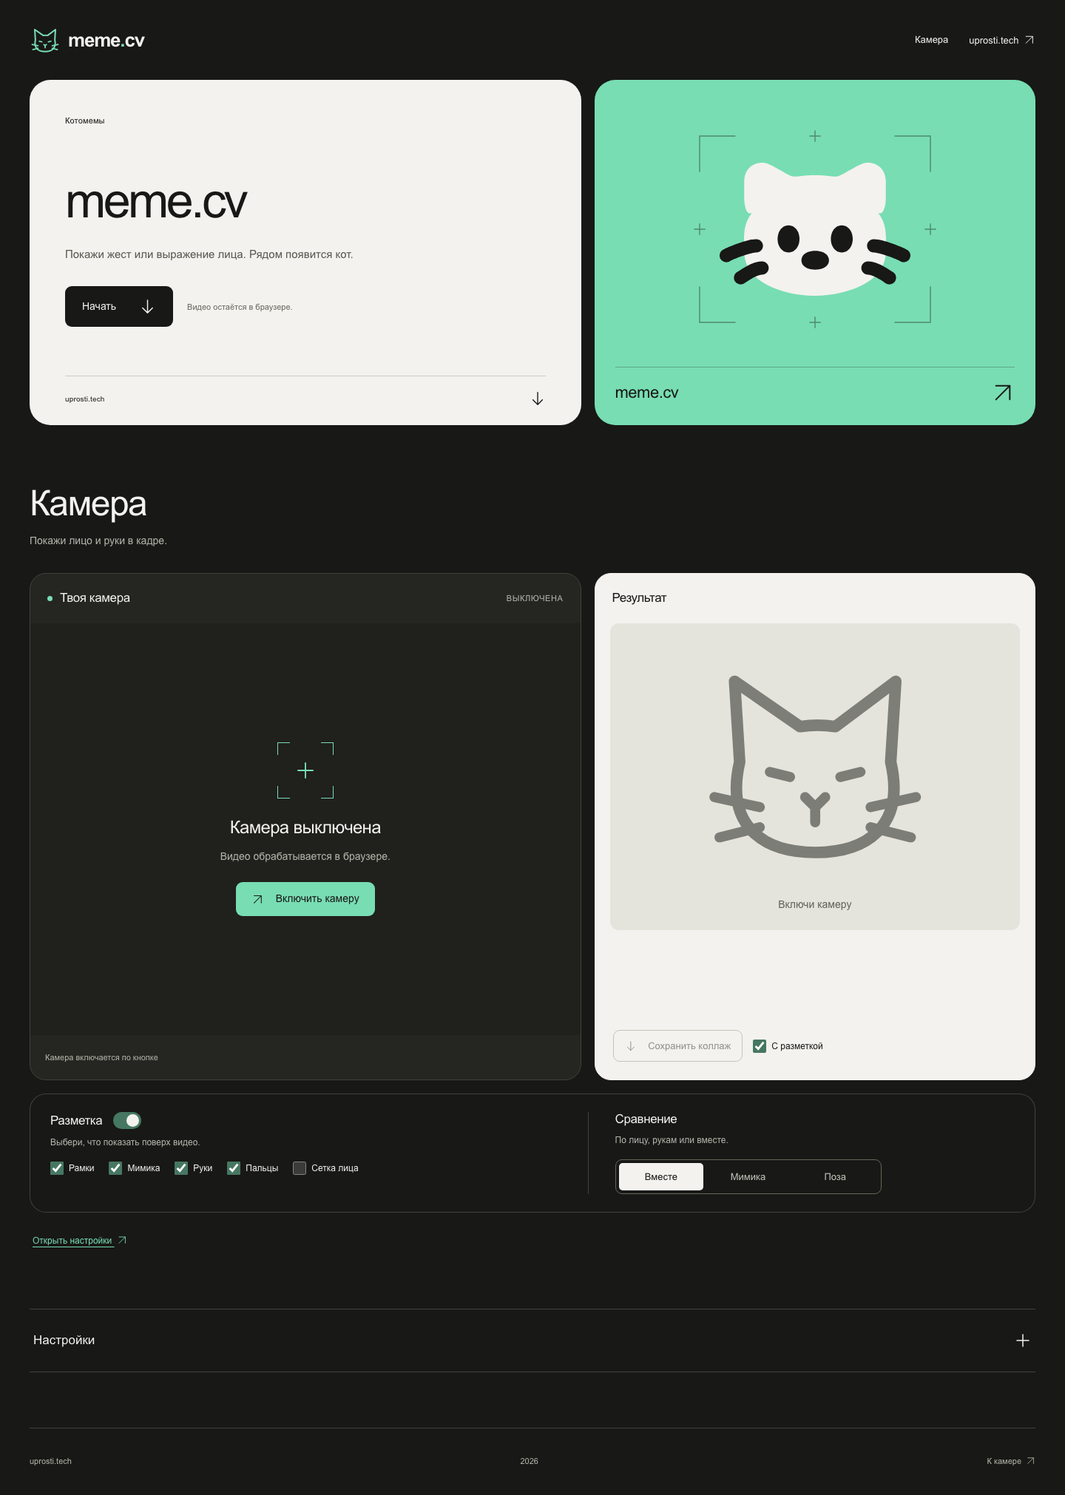
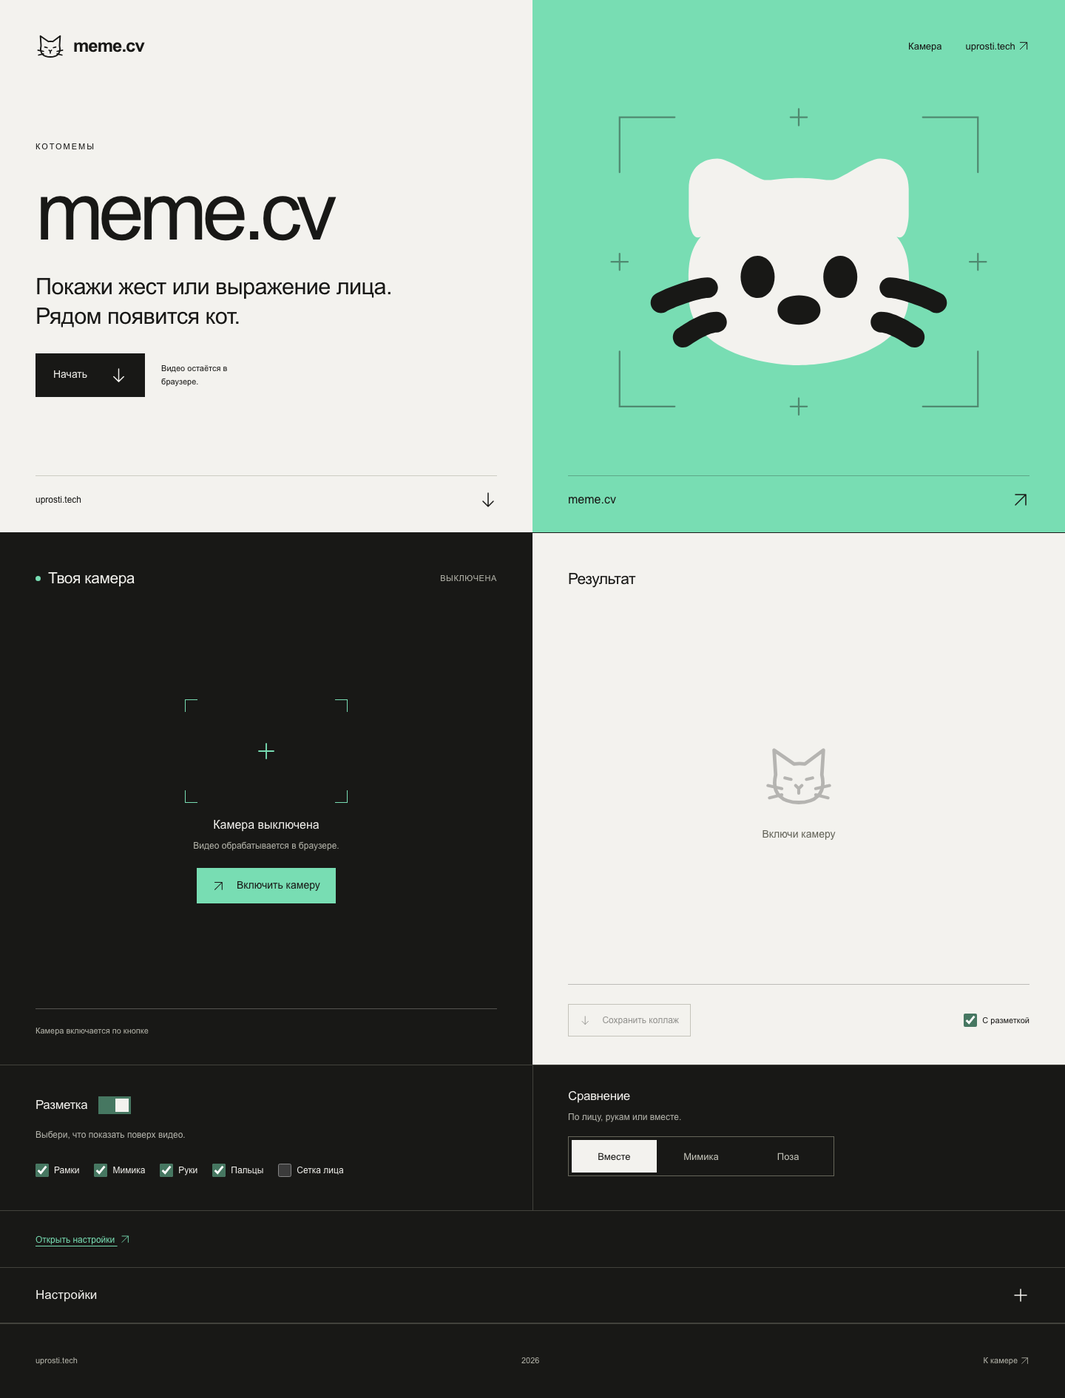
Ship edge-to-edge four-square interface and rectangular settings

diff --git a/src/four-squares.css b/src/four-squares.css
@@ -1,0 +1,145 @@
+/* Approved four-square composition. Media stays absolutely sized so native video
+   dimensions cannot enlarge the grid; video and overlay share contain geometry. */
+main {
+  --layout-columns: repeat(2, minmax(0, 1fr));
+  --layout-gap: 0px;
+  --square-padding: 40px 48px 32px;
+  --control-padding: 32px 48px;
+  max-width: none;
+  padding: 0;
+  margin: 0;
+}
+main *, main *::before, main *::after { border-radius: 0; }
+.release-hero, .workspace, .controls { grid-template-columns: var(--layout-columns); gap: 0; }
+.hero-copy, .hero-cat-card, .camera-panel, .result-panel {
+  aspect-ratio: 1;
+  min-width: 0;
+  min-height: 0;
+  padding: var(--square-padding);
+  display: flex;
+  flex-direction: column;
+  overflow: visible;
+  border: 0;
+}
+.hero-copy { align-items: stretch; }
+.topbar, .site-nav { min-height: 44px; padding: 0; flex-wrap: nowrap; }
+.topbar { justify-content: flex-start; }
+.brand { font-size: 24px; gap: 11px; letter-spacing: -1px; }
+.brand-mark { width: 40px; height: 40px; color: var(--ink); }
+.site-nav { justify-content: flex-end; gap: 32px; font-size: 13px; flex-basis: auto; }
+.site-nav a { display: inline-flex; align-items: center; min-height: 44px; padding: 0; border: 0; }
+.site-nav a:hover { color: var(--ink); text-decoration: underline; text-underline-offset: 5px; }
+.site-nav .ui-icon { width: 16px; height: 16px; }
+.hero-copy-body { flex: 1; display: flex; flex-direction: column; justify-content: center; padding: 35px 0; }
+.hero-copy .eyebrow { font-size: 11px; text-transform: uppercase; letter-spacing: 2px; margin-bottom: 26px; }
+.release-title { font-size: clamp(64px, 7.7vw, 118px); line-height: .95; font-weight: 400; letter-spacing: -7px; }
+.hero-description { font-size: clamp(20px, 2.13vw, 32px); line-height: 1.3; max-width: 520px; margin-top: 30px; letter-spacing: -.6px; color: var(--ink); }
+.hero-action-row { gap: 22px; margin: 30px 0 0; }
+.hero-cta { min-height: 56px; padding: 17px 23px; font-size: 14px; }
+.hero-smallprint { color: var(--ink); max-width: 130px; font-size: 11px; }
+.hero-bottom, .hero-cat-footer { min-height: 40px; padding-top: 20px; font-size: 12px; letter-spacing: 0; flex: 0 0 auto; }
+.hero-cat-footer { font-size: 16px; }
+.hero-bottom > .ui-icon, .hero-cat-footer > .ui-icon { width: 24px; height: 24px; }
+.hero-cat-art { flex: 1; height: auto; min-height: 0; }
+.hero-cat-scene { width: min(100%, 560px); height: auto; max-height: 100%; }
+.camera-panel { background: var(--ink); }
+.result-panel { border-top: 1px solid var(--ink); }
+.panel-heading { min-height: 44px; padding: 0; flex: 0 0 auto; }
+.panel-heading h2 { font-size: 21px; font-weight: 400; letter-spacing: -.5px; }
+.camera-stage, .meme-display { flex: 1; min-height: 0; min-width: 0; aspect-ratio: auto; margin: 0; max-height: none; background: transparent; }
+.camera-stage video, .cv-canvas { object-fit: contain; }
+.camera-placeholder { padding: 16px 0; }
+.viewfinder { width: 220px; height: 140px; margin-bottom: 20px; }
+.camera-placeholder h3 { font-size: 16px; letter-spacing: 0; }
+.camera-placeholder p { font-size: 12px; margin-top: 10px; }
+.camera-placeholder .primary { margin-top: 20px; min-height: 48px; }
+.camera-footer { min-height: 44px; padding: 16px 0 0; border-top: 1px solid #f3f2ee47; flex: 0 0 auto; }
+.camera-footer .text-button { min-height: 44px; }
+.export-row { margin: 0; padding: 20px 0 0; min-height: 77px; justify-content: space-between; gap: 10px; border-top: 1px solid #18181640; flex: 0 0 auto; }
+.export-row .secondary { min-height: 44px; font-size: 12px; }
+.small-check { min-height: 44px; font-size: 11px; }
+.meme-display { position: relative; }
+.meme-display > .cat-image { position: absolute; inset: 0; width: 100%; height: 100%; object-fit: contain; }
+.result-placeholder { position: absolute; inset: 0; }
+.result-placeholder .result-cat-mark { width: 100px; height: 100px; flex: 0 0 auto; opacity: .28; }
+.controls { margin-top: 0; box-shadow: none; border-block: 1px solid var(--line); }
+.control-group + .control-group::before { left: 0; top: 0; bottom: 0; }
+.layer-options label { min-height: 44px; }
+.segmented button { min-height: 44px; }
+.switch { width: 44px; height: 44px; align-items: center; }
+.switch span { height: 24px; }
+.switch span::after { top: 13px; width: 18px; height: 18px; }
+.switch input:checked + span::after { transform: translateX(20px); }
+.recognition-help { padding: 16px 48px; border-bottom: 1px solid var(--line); }
+.recognition-help .text-button { min-height: 44px; }
+.advanced-settings { margin: 0; padding: 0; border-top: 0; }
+.advanced-settings > summary { padding: 24px 48px; min-height: 72px; }
+.advanced-settings[open] > summary { margin: 0; border-bottom: 1px solid var(--line); }
+.calibration-panel { margin: 0; padding: 32px 48px; border: 0; border-bottom: 1px solid var(--line); background: transparent; }
+.details-grid { padding: 32px 48px; margin: 0; }
+footer { margin: 0; padding: 28px 48px; }
+footer a { min-height: 44px; display: inline-flex; align-items: center; }
+.notice { margin: 0; padding-inline: 48px; }
+:where(.hero-copy, .hero-cat-card, .result-panel) :focus-visible { outline-color: var(--ink); }
+@media (min-width: 801px) and (max-width: 1100px) {
+  main { --square-padding: 24px; --control-padding: 24px; }
+  .hero-copy-body { padding: 20px 0; }
+  .hero-copy .eyebrow { margin-bottom: 18px; }
+  .hero-description { margin-top: 20px; }
+  .hero-action-row { margin-top: 20px; gap: 12px; }
+  .hero-cta { min-height: 46px; padding: 12px 18px; }
+  .viewfinder { width: 170px; height: 110px; margin-bottom: 16px; }
+  .export-row { gap: 8px; }
+}
+@media (max-width: 800px) {
+  main { --layout-columns: minmax(0, 1fr); --square-padding: 22px 24px 20px; --control-padding: 24px; }
+  .hero-copy, .hero-cat-card, .camera-panel, .result-panel { min-height: 390px; }
+  .hero-copy, .hero-cat-card { overflow: visible; }
+  .topbar, .site-nav { min-height: 32px; }
+  .brand { font-size: 19px; gap: 8px; }
+  .brand-mark { width: 30px; height: 30px; }
+  .site-nav { font-size: 12px; gap: 24px; }
+  .hero-copy-body { padding: 23px 0; }
+  .hero-copy .eyebrow { font-size: 9px; margin-bottom: 16px; }
+  .release-title { font-size: clamp(68px, 12vw, 100px); letter-spacing: -4px; }
+  .hero-description { font-size: clamp(22px, 4vw, 32px); margin-top: 17px; max-width: 460px; letter-spacing: -.5px; }
+  .hero-action-row { margin: 21px 0 0; gap: 14px; }
+  .hero-cta { min-height: 46px; padding: 12px 16px; font-size: 12px; }
+  .hero-smallprint { font-size: 10px; max-width: 110px; }
+  .hero-bottom, .hero-cat-footer { min-height: 30px; padding-top: 12px; font-size: 10px; }
+  .hero-cat-footer { font-size: 13px; }
+  .hero-cat-scene { width: 100%; max-height: 560px; }
+  .panel-heading { min-height: 30px; }
+  .panel-heading h2 { font-size: 19px; }
+  .viewfinder { width: 160px; height: 90px; margin-bottom: 14px; }
+  .camera-stage { min-height: 270px; }
+  .camera-placeholder { position: relative; min-height: 270px; }
+  .camera-placeholder.camera-loading { position: absolute; }
+  .camera-placeholder h3 { font-size: 16px; }
+  .camera-placeholder .primary { min-height: 44px; margin-top: 14px; }
+  .meme-display { min-height: 250px; }
+  .camera-footer { font-size: 10px; align-items: center; }
+  .export-row { padding-top: 14px; min-height: 65px; }
+  .export-row .secondary { font-size: 11px; padding: 10px; gap: 8px; }
+  .small-check { font-size: 10px; }
+  .control-group + .control-group::before { left: 0; right: 0; height: 1px; bottom: auto; }
+  .recognition-help, .advanced-settings > summary, .calibration-panel, .details-grid, footer { padding-inline: 24px; }
+  footer { margin: 0; }
+}
+/* Explicit component specificity also covers legacy nested settings styles. */
+main :is(.panel, .hero-copy, .hero-cat-card, button, .primary, .secondary,
+  .segmented, .segmented button, .tongue-calibration, .mini-meme,
+  .meme-display, .live-badge, .camera-hud, .camera-placeholder.camera-loading,
+  .recognition-diagnostics canvas, .tag, .switch span, .switch span::after) { border-radius: 0; }
+@media (max-width: 800px) {
+  .hero-copy, .hero-cat-card, .camera-panel, .result-panel { aspect-ratio: auto; min-height: max(390px, 100vw); }
+  .camera-stage { flex: 1 0 auto; }
+  .hero-cat-art { min-height: 286px; }
+}
+.switch span::after { border-radius: 0; }
+.skip-link:not(:focus) { clip-path: inset(50%); width: 1px; height: 1px; overflow: hidden; padding: 0; }
+@media (max-width: 800px) {
+  .site-nav { order: 0; }
+  .hero-cat-art { flex: 1 1 0; }
+  .hero-cat-scene { max-height: 100%; }
+}

diff --git a/e2e/layout.spec.ts b/e2e/layout.spec.ts
@@ -1,46 +1,57 @@
 import { test, expect } from '@playwright/test'
 
 for (const width of [390, 768, 1024, 1280, 1440]) {
-  test(`shared grid aligns cards, camera and controls at ${width}px`, async ({ page }) => {
-    await page.setViewportSize({ width, height: width < 800 ? 1024 : 1100 })
-    await page.goto('/')
+  test(`four edge-to-edge squares and rectangular controls at ${width}px`, async ({ page }) => {
+    await page.setViewportSize({ width, height: 1100 })
     await page.emulateMedia({ reducedMotion: 'reduce' })
-    const layout = await page.evaluate(() => {
+    await page.goto('/')
+    const measure = () => page.evaluate(() => {
       const rect = (selector: string) => {
-        const { left, right, top, bottom, width } = document.querySelector(selector)!.getBoundingClientRect()
-        return { left, right, top, bottom, width }
+        const { left, right, top, bottom, width, height } = document.querySelector(selector)!.getBoundingClientRect()
+        return { left, right, top, bottom, width, height }
       }
-      const second = document.querySelectorAll('.control-group')[1]
-      const divider = getComputedStyle(second, '::before')
       return {
-        hero: [rect('.hero-copy'), rect('.hero-cat-card')],
-        workspace: [rect('.camera-panel'), rect('.result-panel')],
+        squares: ['.hero-copy', '.hero-cat-card', '.camera-panel', '.result-panel'].map(rect),
         controls: [rect('.control-group'), rect('.control-group + .control-group')],
-        heading: rect('.section-kicker h2'), hint: rect('.section-kicker p'),
-        divider: second.getBoundingClientRect().left + parseFloat(divider.left),
         overflow: document.documentElement.scrollWidth - innerWidth,
+        rounded: [...document.querySelectorAll('.panel, .hero-copy, .hero-cat-card, button, .segmented, .tongue-calibration, .mini-meme')]
+          .filter(el => el.getClientRects().length).filter(el => getComputedStyle(el).borderTopLeftRadius !== '0px').length,
       }
     })
+    const layout = await measure()
     const near = (a: number, b: number) => expect(Math.abs(a - b)).toBeLessThanOrEqual(1)
     expect(layout.overflow).toBeLessThanOrEqual(0)
-    near(layout.hint.left, layout.workspace[0].left)
-    near(layout.heading.left, layout.hint.left)
-    expect(layout.hint.top).toBeGreaterThan(layout.heading.bottom)
-    expect(layout.hint.bottom).toBeLessThan(layout.workspace[0].top)
-    for (const pair of [layout.hero, layout.controls]) {
-      for (const i of [0, 1]) {
-        near(pair[i].left, layout.workspace[i].left)
-        near(pair[i].right, layout.workspace[i].right)
-      }
-      if (width <= 800) expect(pair[1].top).toBeGreaterThanOrEqual(pair[0].bottom)
-    }
+    expect(layout.rounded).toBe(0)
+    const [copy, cat, camera, result] = layout.squares
+    near(copy.left, 0); near(copy.top, 0)
     if (width > 800) {
-      near(layout.divider, (layout.workspace[0].right + layout.workspace[1].left) / 2)
-      near(layout.hero[0].top, layout.hero[1].top)
-      near(layout.workspace[0].top, layout.workspace[1].top)
+      for (const box of layout.squares) { near(box.width, width / 2); near(box.height, width / 2) }
+      near(copy.right, cat.left); near(cat.right, width); near(copy.top, cat.top)
+      near(copy.bottom, camera.top); near(cat.bottom, result.top)
+      near(camera.right, result.left); near(result.right, width)
     } else {
-      expect(layout.workspace[1].top).toBeGreaterThan(layout.workspace[0].bottom)
+      for (const box of layout.squares) { near(box.left, 0); near(box.width, width) }
+      for (let i = 1; i < 4; i++) near(layout.squares[i].top, layout.squares[i - 1].bottom)
+      const targets = await page.locator('.site-nav a, .hero-cta, .camera-placeholder button, .small-check, .layer-options label, .segmented button, .switch').evaluateAll(els => els.map(el => el.getBoundingClientRect().height))
+      expect(targets.every(height => height >= 44)).toBe(true)
     }
+    for (const [i, box] of layout.controls.entries()) {
+      near(box.left, layout.squares[width > 800 ? i : 0].left)
+      near(box.width, copy.width)
+    }
+    await page.locator('.advanced-settings > summary').click()
+    expect((await measure()).overflow).toBeLessThanOrEqual(0)
+    expect((await measure()).rounded).toBe(0)
     await page.screenshot({ path: `test-results/grid-${width}.png`, fullPage: true })
   })
 }
+
+test('mobile enlarged text can grow without clipping camera controls', async ({ page }) => {
+  await page.setViewportSize({ width: 390, height: 844 })
+  await page.goto('/')
+  await page.addStyleTag({ content: '.hero-copy-body, .camera-placeholder { font-size: 200% } .camera-placeholder h3, .camera-placeholder p { font-size: 1em }' })
+  const stage = await page.locator('.camera-stage').boundingBox()
+  const button = await page.getByRole('button', { name: 'Включить камеру' }).boundingBox()
+  expect(button!.y + button!.height).toBeLessThanOrEqual(stage!.y + stage!.height)
+  expect(await page.evaluate(() => document.documentElement.scrollWidth <= innerWidth)).toBe(true)
+})

diff --git a/src/App.tsx b/src/App.tsx
@@ -15,6 +15,7 @@ import { MemeArt } from './components/MemeArt'
 import { loadImages } from './lib/image-store'
 import { calibratedMemes, emptyCalibration, loadCalibration, medianFeatures, normalizeFace, persistCalibration } from './lib/calibration'
 import './App.css'
+import './four-squares.css'
 
 const defaultOverlay: OverlayOptions = { enabled: true, boxes: true, face: true, mesh: false, pose: true, hands: true }
 const featureLabels: Partial<Record<keyof Features, string>> = { mouthOpen: 'Рот', eyesOpen: 'Глаза', headDown: 'Голова вниз', headUp: 'Голова вверх', leftHandUp: 'Левая рука', rightHandUp: 'Правая рука', handsNearFace: 'Руки у лица', fist: 'Кулак', callMe: 'Жест 🤙', fingersTogether: 'Жест 👉👈', tongueOut: 'Язык' }
@@ -251,10 +252,8 @@ export default function App() {
   const busy = status === 'loading'
   return <main>
     <a className="skip-link" href="#playground">Перейти к камере</a>
-    <header className="topbar"><a className="brand" href="/"><CatMark className="brand-mark" /><span>meme<span className="brand-dot">.</span>cv</span></a><nav className="site-nav" aria-label="Навигация"><a href="#playground">Камера</a><a href="https://uprosti.tech">uprosti.tech <Icon name="arrow-up-right" /></a></nav></header>
     <ReleaseHero onStart={() => { void start(); document.getElementById('playground')?.scrollIntoView({ behavior: matchMedia('(prefers-reduced-motion: reduce)').matches ? 'auto' : 'smooth', block: 'start' }) }} busy={busy} running={status === 'running'} />
-    <section className="section-kicker" id="playground"><div><h2>Камера</h2><p>Покажи лицо и руки в кадре.</p></div></section>
-    <div className="workspace">
+    <div className="workspace" id="playground">
       <section className="panel camera-panel"><div className="panel-heading"><h2><span className="dot" /> Твоя камера</h2><span className="mono">{cameraReady ? 'Включена' : busy ? 'Подключение' : 'Выключена'}</span></div>
         <div className="camera-stage">
           <video ref={videoRef} muted playsInline className={cameraReady ? 'visible' : ''} />

diff --git a/e2e/app.spec.ts b/e2e/app.spec.ts
@@ -24,7 +24,7 @@ test('camera permission denial has an actionable error', async ({ page }) => {
 })
 
 test('real MediaPipe models initialize and process synthetic camera frames', async ({ browser }) => {
-  const context = await browser.newContext({ permissions: ['camera'] })
+  const context = await browser.newContext({ permissions: ['camera'], viewport: { width: 1024, height: 1100 } })
   const page = await context.newPage()
   const errors: string[] = []
   page.on('pageerror', e => errors.push(e.message))
@@ -46,6 +46,20 @@ test('real MediaPipe models initialize and process synthetic camera frames', asy
   await expect(page.locator('.camera-hud')).toContainText('Лицо не найдено', { timeout: 20000 })
   await expect(page.locator('.camera-hud')).toContainText(/[1-9]\d* мс/, { timeout: 20000 })
   await expect(page.locator('.cv-canvas')).toHaveAttribute('width', '640')
+  const mediaGeometry = await page.evaluate(() => {
+    const selectors = ['.hero-copy', '.hero-cat-card', '.camera-panel', '.result-panel']
+    return {
+      squares: selectors.map(selector => { const b = document.querySelector(selector)!.getBoundingClientRect(); return [b.width, b.height] }),
+      media: ['video', '.cv-canvas'].map(selector => { const b = document.querySelector(selector)!.getBoundingClientRect(); return [b.x, b.y, b.width, b.height] }),
+    }
+  })
+  for (const [width, height] of mediaGeometry.squares) {
+    expect(Math.abs(width - 512)).toBeLessThanOrEqual(1)
+    expect(Math.abs(height - 512)).toBeLessThanOrEqual(1)
+  }
+  expect(mediaGeometry.media[0]).toEqual(mediaGeometry.media[1])
+  await expect(page.locator('video')).toHaveCSS('object-fit', 'contain')
+  await expect(page.locator('.cv-canvas')).toHaveCSS('object-fit', 'contain')
   await page.getByRole('checkbox', { name: 'Показать CV-разметку' }).uncheck()
   await page.getByRole('button', { name: 'Остановить' }).click()
   await expect(page.getByRole('button', { name: 'Включить камеру' })).toBeVisible()

diff --git a/src/components/ReleaseHero.tsx b/src/components/ReleaseHero.tsx
@@ -1,5 +1,6 @@
 import { Icon } from './Icon'
 import { HeroCat } from './HeroCat'
+import { CatMark } from './CatMark'
 
 type ReleaseHeroProps = {
   onStart: () => void
@@ -12,6 +13,8 @@ export function ReleaseHero({ onStart, busy, running }: ReleaseHeroProps) {
   return (
     <section className="release-hero" aria-labelledby="release-title">
       <div className="hero-copy">
+        <header className="topbar"><a className="brand" href="/" aria-label="meme.cv — начало"><CatMark className="brand-mark" /><span>meme.cv</span></a></header>
+        <div className="hero-copy-body">
         <div className="eyebrow">Котомемы</div>
         <h1 id="release-title" className="release-title">meme.cv</h1>
         <p className="hero-description">Покажи жест или выражение лица. Рядом появится кот.</p>
@@ -25,9 +28,11 @@ export function ReleaseHero({ onStart, busy, running }: ReleaseHeroProps) {
           )}
           <span className="hero-smallprint">Видео остаётся в браузере.</span>
         </div>
+        </div>
         <div className="hero-bottom"><span>uprosti.tech</span><Icon name="arrow-down" /></div>
       </div>
       <div className="hero-cat-card">
+        <nav className="site-nav" aria-label="Навигация"><a href="#playground">Камера</a><a href="https://uprosti.tech">uprosti.tech <Icon name="arrow-up-right" /></a></nav>
         <div className="hero-cat-art" aria-hidden="true">
           <HeroCat />
         </div>

diff --git a/e2e/icons.spec.ts b/e2e/icons.spec.ts
@@ -45,7 +45,7 @@ test('mint styling ignores legacy palette settings and preserves calibration', a
   })
   await page.goto('/')
   await expect(page.locator('.hero-cat-card')).toHaveCSS('background-color', 'rgb(120, 221, 179)')
-  await expect(page.locator('.brand-mark')).toHaveCSS('color', 'rgb(120, 221, 179)')
+  await expect(page.locator('.brand-mark')).toHaveCSS('color', 'rgb(24, 24, 22)')
   await expect(page.getByRole('link', { name: 'Оформление', exact: true })).toHaveCount(0)
   await page.reload()
   await expect(page.locator('.hero-cat-card')).toHaveCSS('background-color', 'rgb(120, 221, 179)')

diff --git a/docs/DEPLOYMENT.md b/docs/DEPLOYMENT.md
@@ -79,3 +79,7 @@ meme-cv.example.com {
 - Реальная камера проверена вручную; blank-stream smoke-тест этого не заменяет.
 
 При зависании на «Движок» или названии модели проверь Network в DevTools. Видео с камеры и скачивание движка являются разными этапами: разрешённая камера не гарантирует, что сеть уже доставила WASM.
+
+### UI-only релиз поверх проверенного набора моделей
+
+Для обновления только интерфейса допустима новая hardlink-копия `current/.` (`cp -al`) с сохранением старых hashed assets, моделей, WASM и частей. Перед распаковкой нужно **unlink** копии `index.html` и `favicon.svg`, чтобы не изменить предыдущий релиз через общий inode. UI-архив содержит только `index.html`, `assets/` и `favicon.svg`; его SHA256 проверяется после передачи. Новые JS/CSS получают отдельные gzip-файлы. Перед атомарным переключением `current` и после него проверяется неизменность SHA256 всех файлов старого релиза. Контейнеры перезапускать не требуется. После переключения сверяются SHA256 опубликованных HTML/JS/CSS с локальной сборкой.

diff --git a/README.md b/README.md
@@ -7,7 +7,9 @@ Computer vision in the browser: match facial expressions and hand gestures to ca
 
 **[Открыть демо](https://meme-cv.uprosti.tech)** · [Пайплайн подробно](docs/PIPELINE.md) · [Развёртывание](docs/DEPLOYMENT.md)
 
-![Интерфейс meme.cv](docs/images/preview.png)
+![Интерфейс meme.cv: четыре квадрата без зазоров](docs/images/preview.png)
+
+Адаптивная композиция: четыре равных квадрата на desktop, одна колонка на мобильном; ниже прямоугольные блоки разметки, сравнения и необязательных настроек. [Мобильный вид](docs/images/four-squares-mobile.png) · [Открытые настройки](docs/images/four-squares-desktop-settings.png).
 
 ## Что это
 
